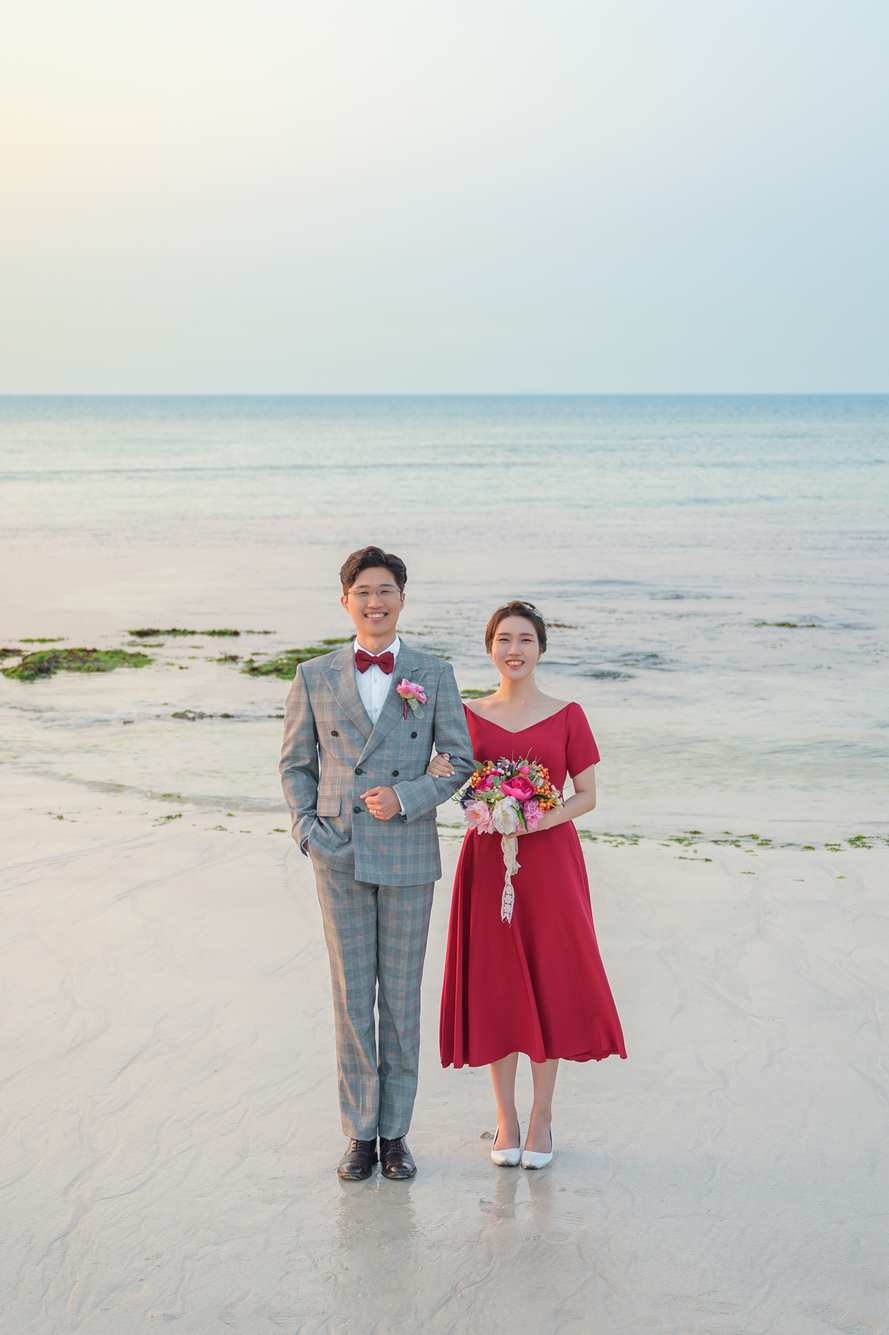
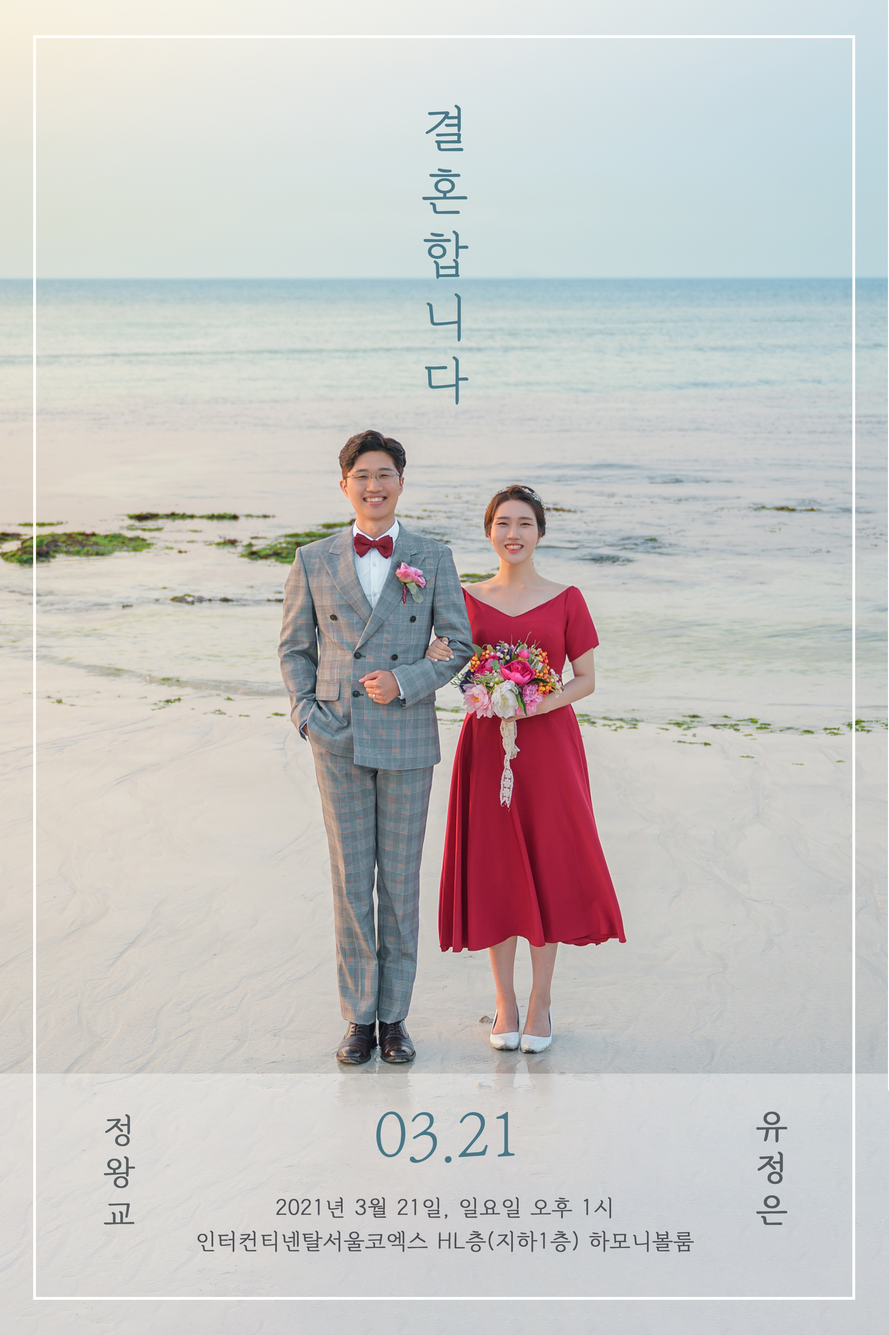
update

diff --git a/index.html b/index.html
@@ -43,14 +43,14 @@ gtag('config', 'G-VGB7W31YJF');
 <div id="invitation">
     <div id="main" class="main">
         <img class="main-photo" src="resource/main.jpg">
-        <div class="main-text">
-            <h4>정왕교ㆍ유정은</h4>
-            <p>
-                2021년 3월 21일, 일요일 오후 1시<br>
-                인터컨티넨탈서울코엑스<br>
-                HL층(지하1층) 하모니볼룸
-            </p>
-        </div>
+<!--        <div class="main-text">-->
+<!--            <h4>정왕교ㆍ유정은</h4>-->
+<!--            <p>-->
+<!--                2021년 3월 21일, 일요일 오후 1시<br>-->
+<!--                인터컨티넨탈서울코엑스<br>-->
+<!--                HL층(지하1층) 하모니볼룸-->
+<!--            </p>-->
+<!--        </div>-->
     </div>
 
     <div class="splitter"></div>
